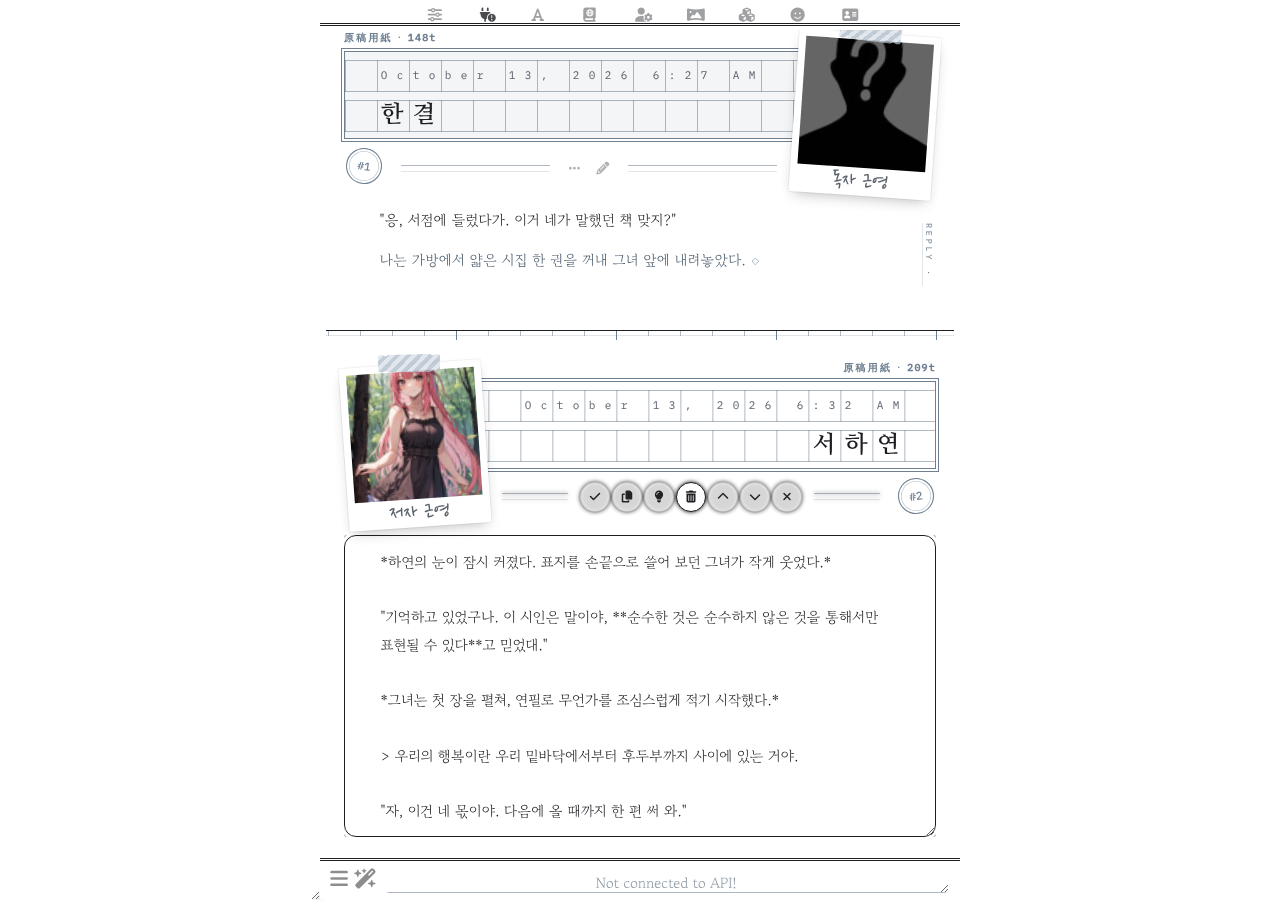
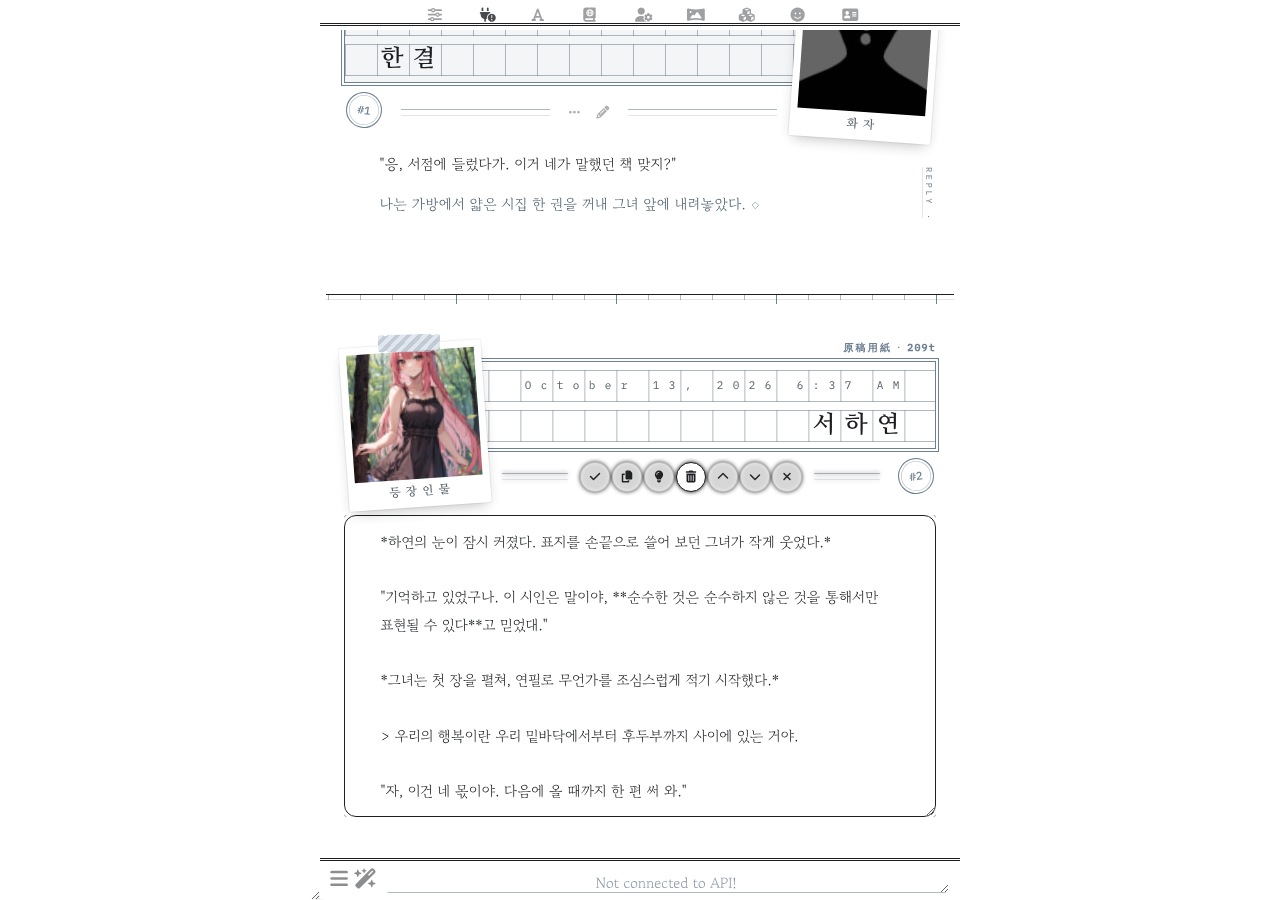
Wongoji: literary polaroid captions, distinct tapes, mobile spine
- Captions read '등장인물' / '화자' in letter-spaced serif
- User polaroid gets corner check-pattern tapes; character keeps the
  striped center tape
- More room around the ruler separator
- Spine label shown on mobile too

Claude-Session: https://claude.ai/code/session_01VxNZVdN99GR1yFwUVAN4mT

diff --git a/src/wongoji.css b/src/wongoji.css
@@ -30,9 +30,9 @@
     /* 폴라로이드 사진 필터. 흑백으로 보고 싶다면 grayscale(1) */
     --wg-photo-filter: none;
 
-    /* 폴라로이드 아래 손글씨 — 책날개의 '저자 근영(近影)'처럼 */
-    --wg-caption-char: '저자 근영';
-    --wg-caption-user: '독자 근영';
+    /* 폴라로이드 아래 인쇄 글씨 — 소설의 '등장인물'과 '화자' */
+    --wg-caption-char: '등장인물';
+    --wg-caption-user: '화자';
 
     /* 띠 위 여백에 인쇄된 이름 (토큰 수가 뒤에 붙습니다) */
     --wg-paper-label: '原稿用紙';
@@ -57,7 +57,7 @@
     --wg-cell: 32px;              /* 칸 */
     --wg-gap: 8px;                /* 줄 사이 틈 */
     --wg-name-size: 24px;         /* 이름 글자 (칸보다 작게) */
-    --wg-pad: 50px;               /* 구분선과 띠 사이 */
+    --wg-pad: 66px;               /* 구분선과 띠 사이 */
     --wg-side: 18px;
     --wg-photo: 128px;
     --wg-stamp-size: 36px;               /* 번호 도장 지름 */
@@ -82,7 +82,7 @@
         --wg-ts-per: 3;
         --wg-gap: 6px;
         --wg-name-size: 19px;
-        --wg-pad: 42px;
+        --wg-pad: 56px;
         --wg-side: 10px;
         --wg-photo: 100px;
         --wg-stamp-size: 31px;
@@ -191,7 +191,7 @@ body {
 
     display: block;
     position: relative;
-    padding: calc(var(--wg-pad) + var(--wg-band-h) + 12px) var(--wg-side) 56px;
+    padding: calc(var(--wg-pad) + var(--wg-band-h) + 12px) var(--wg-side) 76px;
     margin: 0;
     /* 구분선 — 원고지 낱장의 머리처럼, 칸마다 눈금을 새긴 자 */
     border-top: 1px solid var(--wg-ink);
@@ -246,7 +246,7 @@ body {
     z-index: 0;
 }
 
-/* 폴라로이드 아래 손글씨 — 아바타와 같은 상자를 같은 각도로 */
+/* 폴라로이드 아래 글씨 — 아바타와 같은 상자를 같은 각도로 */
 #chat .mes::after {
     content: var(--wg-caption-char);
     position: absolute;
@@ -258,8 +258,11 @@ body {
     padding: calc(var(--wg-photo) + var(--wg-frame)) 8px 0;
     transform: rotate(var(--wg-tilt));
     text-align: center;
-    font-family: var(--wg-hand);
-    font-size: calc(var(--wg-chin) * 0.8);
+    font-family: var(--wg-title);
+    font-size: calc(var(--wg-chin) * 0.42);
+    font-weight: 700;
+    letter-spacing: 0.45em;
+    text-indent: 0.45em;
     line-height: calc(var(--wg-chin) * 0.95);
     color: var(--wg-ink-soft);
     white-space: nowrap;
@@ -312,6 +315,33 @@ body {
     clip-path: polygon(0 8%, 6% 0, 12% 10%, 18% 0, 82% 0, 88% 10%, 94% 0, 100% 8%,
         100% 92%, 94% 100%, 88% 90%, 82% 100%, 18% 100%, 12% 90%, 6% 100%, 0 92%);
     z-index: 1;
+}
+
+/* 유저 — 모서리 두 곳에 체크무늬 테이프 */
+#chat .mes[is_user="true"] .avatar::before,
+#chat .mes[is_user="true"] .avatar::after {
+    content: '';
+    position: absolute;
+    top: calc(var(--wg-frame) * -0.6);
+    width: 34%;
+    height: calc(var(--wg-frame) * 2.4);
+    background:
+        linear-gradient(90deg, rgba(150, 166, 182, 0.35) 50%, transparent 50%) 0 0 / 6px 6px,
+        linear-gradient(rgba(150, 166, 182, 0.35) 50%, transparent 50%) 0 0 / 6px 6px,
+        rgba(226, 232, 238, 0.8);
+    clip-path: polygon(0 0, 100% 0, 96% 50%, 100% 100%, 0 100%, 4% 50%);
+    z-index: 1;
+}
+
+#chat .mes[is_user="true"] .avatar::before {
+    left: calc(var(--wg-frame) * -1.8);
+    transform: rotate(-38deg);
+}
+
+#chat .mes[is_user="true"] .avatar::after {
+    left: auto;
+    right: calc(var(--wg-frame) * -1.8);
+    transform: rotate(38deg);
 }
 
 #chat .mes .avatar img {
@@ -835,12 +865,12 @@ body.no-tokenCount #chat .mes .ch_name::after {
     height: auto;
 }
 
-/* 책등 — 본문 옆에 세로로 인쇄된 표기 (넓은 화면) */
+/* 책등 — 본문 옆에 세로로 인쇄된 표기 */
 #chat .mes .mes_block::after {
     content: var(--wg-spine-char);
     position: absolute;
     top: calc(var(--wg-pad) + var(--wg-band-h) + 84px);
-    bottom: 44px;
+    bottom: 76px;
     left: var(--wg-side);
     width: 14px;
     box-sizing: border-box;
@@ -870,7 +900,20 @@ body.no-tokenCount #chat .mes .ch_name::after {
 
 @media (max-width: 600px) {
     #chat .mes .mes_block::after {
-        display: none;
+        width: 12px;
+        line-height: 12px;
+        font-size: 7.5px;
+        letter-spacing: 0.26em;
+    }
+
+    #chat .mes .mes_text {
+        padding-left: 26px;
+        padding-right: 8px;
+    }
+
+    #chat .mes[is_user="true"] .mes_text {
+        padding-left: 8px;
+        padding-right: 26px;
     }
 }
 

diff --git a/README.md b/README.md
@@ -14,9 +14,9 @@ SillyTavern UI 테마입니다. 흰 바탕과 먹, 청회색으로 인쇄된 원
   - 둘째 줄: 이름을 한 칸에 한 글자씩. 모두 끝 한 칸을 비우고 적습니다.
   - 띠 위 여백에는 `原稿用紙 · 412t`처럼 메시지의 토큰 수가 인쇄됩니다. 토큰 수 표시(Message Token Count)를 끄면 `原稿用紙`만 남습니다.
   - 띠 끝 아래에는 채팅 번호가 원형 도장으로 찍힙니다.
-- **폴라로이드**: 아바타는 컬러 폴라로이드로 띠 위에 비스듬히 겹쳐 놓이고, 줄무늬 마스킹 테이프가 붙습니다. 아래 여백에는 책날개의 사진 설명처럼 `저자 근영`(캐릭터), `독자 근영`(유저)이 손글씨로 적힙니다.
+- **폴라로이드**: 아바타는 컬러 폴라로이드로 띠 위에 비스듬히 겹쳐 놓입니다. 캐릭터 사진에는 가운데에 사선 줄무늬 테이프가, 유저 사진에는 두 모서리에 체크무늬 테이프가 붙습니다. 아래 여백에는 소설 용어로 `등장인물`(캐릭터), `화자`(유저)가 인쇄됩니다.
 - **버튼 줄**: 띠와 본문 사이에 메시지 버튼을 두고, 그 양옆에 가는 이중 괘선을 그었습니다.
-- **본문**: 가독성을 위해 틀과 칸 배경 없이 종이 위에 바로 씁니다. 넓은 화면에서는 본문 옆에 책등처럼 세로 표기(`MANUSCRIPT · 原稿`, `REPLY · 答書`)가 붙고, 글 끝에는 마침 기호 `◇`가 찍힙니다.
+- **본문**: 가독성을 위해 틀과 칸 배경 없이 종이 위에 바로 씁니다. 본문 옆에 책등처럼 세로 표기(`MANUSCRIPT · 原稿`, `REPLY · 答書`)가 붙고, 글 끝에는 마침 기호 `◇`가 찍힙니다.
 - **문장 표현**: 대사와 본문은 먹색, 지문과 속마음은 청회색입니다. 인용(`>`)은 책 뒤표지의 제사(題辭)처럼 큰 따옴표가 달린 가운데 정렬 청회색 상자로, 장면 전환(`---`)은 `＊`로 보입니다.
 - **색**: 화면 요소는 흑백과 청회색만 씁니다(아바타 사진은 원래 색 그대로). 유저 원고지는 아주 옅은 청회색이고, 그림자와 블러는 없습니다.
 - **상단 메뉴 · 입력창**: 아이콘을 작게 줄여 가운데로 모으고, 책 머리말처럼 이중 괘선으로 구분했습니다. 모바일에서도 입력창 아이콘이 PC처럼 한 줄로 놓입니다.
@@ -41,7 +41,7 @@ SillyTavern UI 테마입니다. 흰 바탕과 먹, 청회색으로 인쇄된 원
 | `--wg-print`, `--wg-print-line` | 원고지 인쇄색(청회색) |
 | `--wg-quote`, `--wg-em` | 대사와 지문 색 |
 | `--wg-photo-filter` | 폴라로이드 필터. `grayscale(1)`로 두면 흑백 사진이 됩니다 |
-| `--wg-caption-char`, `--wg-caption-user` | 폴라로이드 아래 손글씨 |
+| `--wg-caption-char`, `--wg-caption-user` | 폴라로이드 아래 글씨 |
 | `--wg-paper-label` | 띠 위 여백에 인쇄되는 이름 (기본 `原稿用紙`) |
 | `--wg-stamp-size` | 번호 도장 지름 |
 | `--wg-ts-per` | 날짜를 한 칸에 몇 자씩 적을지 |
